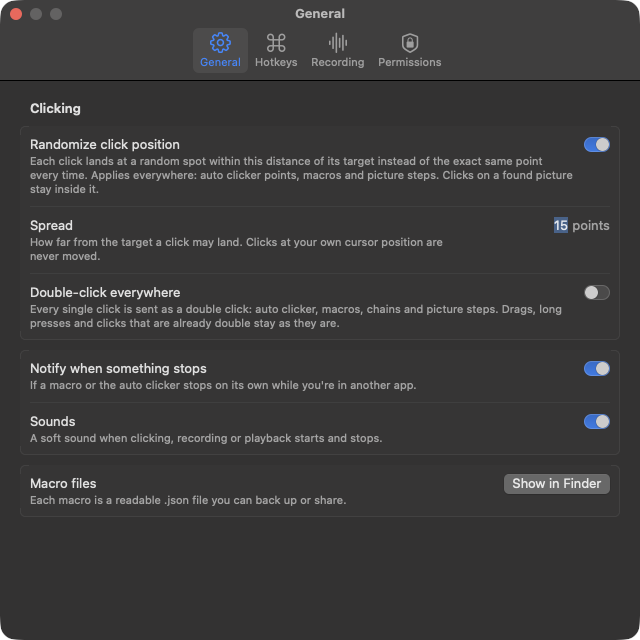
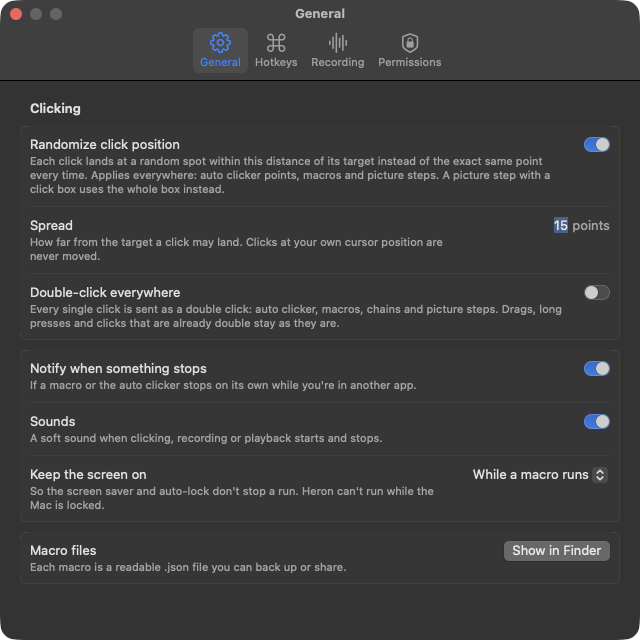
Heron 1.2.0: README, screenshots and release notes
- README describes templates, schedules, stop conditions, smarter recording, Both and Spot, Type from a list, resizing, click boxes and the cleaner editor; new templates screenshot, refreshed screenshots
- README tour selects a step for the main picture and captures the template chooser
- Test data uses neutral words

diff --git a/Tests/qa/lookup.swift b/Tests/qa/lookup.swift
@@ -188,12 +188,12 @@ CLICK
 check("a drafted plan becomes steps", planned == [.click("Claim"), .wait(2), .type("hello"), .press("Return")], "\(planned)")
 
 // Live (informational): what the on-device model suggests on a typical results screen.
-let screenLines = ["K.O.", "Battle Results", "OK", "Link Skill Level"].map { TextFinder.Line(text: $0, rect: .zero, words: []) }
+let screenLines = ["Level complete", "Results", "OK", "Total score"].map { TextFinder.Line(text: $0, rect: .zero, words: []) }
 let sem = DispatchSemaphore(value: 0)
 var suggestion: String?
 Task.detached { suggestion = await Assistant.suggestTap(on: screenLines); sem.signal() }
 sem.wait()
-print("INFO suggestion for [K.O., Battle Results, OK, Link Skill Level]: \(suggestion ?? "none") (model available: \(Assistant.modelAvailable))")
+print("INFO suggestion for [Level complete, Results, OK, Total score]: \(suggestion ?? "none") (model available: \(Assistant.modelAvailable))")
 check("a suggestion is always one of the words on screen", suggestion == nil || screenLines.contains { $0.text == suggestion })
 
 // Smart recording, icons: a detailed spot becomes a picture; a flat one doesn't.
@@ -360,7 +360,7 @@ check("“4” matches the 4 standing on its own", near(TextFinder.find("4", in:
 check("longer words still match inside a line", TextFinder.find("Turn", in: nlines, area: nil) != nil)
 
 // Big pictures: found where they are, without taking seconds.
-let bigScene = window([("Battle Results", CGPoint(x: 60, y: 60)), ("Link Skill Level", CGPoint(x: 60, y: 120)),
+let bigScene = window([("Results", CGPoint(x: 60, y: 60)), ("Total score", CGPoint(x: 60, y: 120)),
                        ("Claim", CGPoint(x: 500, y: 300)), ("Close", CGPoint(x: 300, y: 420))])
 let bigRect = CGRect(x: 40, y: 40, width: 520, height: 330)
 let bigPic = pngOf(bigScene.0, bigRect)

diff --git a/Sources/Heron/ScreenshotTour.swift b/Sources/Heron/ScreenshotTour.swift
@@ -44,6 +44,11 @@ enum ScreenshotTour {
                 if let viewMode { UserDefaults.standard.set(viewMode, forKey: "stepsViewMode") }
                 model.sidebar = page
                 try? await Task.sleep(for: .seconds(1.2))
+                // The main picture shows a step's settings beside the list.
+                if name == "chain" {
+                    NotificationCenter.default.post(name: Self.selectAction, object: 0)
+                    try? await Task.sleep(for: .seconds(0.8))
+                }
                 NSApp.activate(ignoringOtherApps: true)
                 try? await Task.sleep(for: .seconds(0.4))
                 // An open sheet is its own window.
@@ -52,6 +57,13 @@ enum ScreenshotTour {
                     try? png.write(to: out.appendingPathComponent("\(name).png"))
                 }
             }
+            // A new macro opens on its templates (“What should it do?”).
+            model.newMacro()
+            try? await Task.sleep(for: .seconds(1.2))
+            if let win = NSApp.windows.first(where: { $0.isVisible && $0.canBecomeMain }), let png = capture(win) {
+                try? png.write(to: out.appendingPathComponent("templates.png"))
+            }
+            if let m = model.selectedMacro, m.steps.isEmpty { model.delete(m) }
             model.sidebar = .autoClicker
             // Settings live in their own window.
             let main = NSApp.windows.first { $0.isVisible && $0.canBecomeMain }

diff --git a/README.md b/README.md
@@ -6,7 +6,8 @@
 
 <p align="center">
   <b>The free Mac auto clicker that can see your screen.</b><br>
-  Click on a timer, replay what you did, or click a button or a word the moment it shows up.
+  Click on a timer, replay what you did, or click a button or a word the moment it shows up.<br>
+  Run it on a schedule, and let it stop by itself when the job is done.
 </p>
 
 <p align="center">
@@ -31,8 +32,15 @@
 clicks it the moment it appears, wherever it appears. Words are read on your Mac with Apple's built-in text
 recognition.
 
-**Record once, see what you did.** A recording shows up as numbered taps and swipes on top of the window,
-with a timeline, instead of hundreds of raw events. Drag a tap to move it.
+**Start in seconds.** A new macro asks what it should do: click something whenever it appears, do some
+steps in order, run on a schedule, or repeat until it's done. Answer a question or two and it's set up.
+
+**Record once, and it finds things for you.** Every tap you record becomes a step that finds what you
+tapped, by its picture or its words, wherever it is next time. A recording shows up as numbered taps on top
+of the window, with a timeline, instead of hundreds of raw events.
+
+**Runs on its own.** Start a macro every morning, every few hours or when an app opens, and have it stop
+when a “finished” screen appears. Heron keeps the screen awake while it works and tells you how it went.
 
 **Runs in the background.** Switch on a macro that clicks pop-ups whenever they show up, while another
 macro plays or you keep working.
@@ -51,6 +59,14 @@ your Mac.
   <tr>
     <td align="center">Recordings as a map</td>
     <td align="center">Background macros</td>
+  </tr>
+  <tr>
+    <td><img src="docs/screenshots/templates.png" alt="A new macro asking what it should do, with five starting points"></td>
+    <td><img src="docs/screenshots/chain.png" alt="A picture step's settings: look for a picture, words or both, where clicks land, and the search area"></td>
+  </tr>
+  <tr>
+    <td align="center">Start from a template</td>
+    <td align="center">Pictures and words</td>
   </tr>
   <tr>
     <td><img src="docs/screenshots/auto-clicker.png" alt="The auto clicker with a large speed readout and its settings"></td>
@@ -102,20 +118,23 @@ scripts/setup-signing.sh   # once: a personal signing certificate, so permission
 </details>
 
 <details>
-<summary><b>Record and build macros</b></summary>
+<summary><b>Start, record and build macros</b></summary>
 
-- Record mouse moves, clicks, drags, scrolls and keystrokes, or just one app's window
-- Remember what you click: a click on a word like “Claim” or on an icon becomes a step that finds it
-  wherever it is, and clicks the recorded spot if it isn't there. Works whenever every click goes to one app
-- Or build one step by step: Click, Type, Wait, Find Picture and Find Text are one click each, and the
-  selected step's settings show beside the list
-- See a macro three ways: a map of the window with every tap, a readable list (“Tap”, “Swipe up”,
-  “Type “hello””), or every raw event
-- Switch any step off without deleting it, and keep macros in folders
+- Templates: a new macro asks what it should do (click something whenever it appears, steps in order,
+  run on a schedule, repeat until done) and sets itself up
+- Record mouse and keyboard, or just one app's window. Every tap becomes a step that finds what you tapped,
+  by its picture, its words or both, and taps the recorded spot if it isn't there. Several quick taps on one
+  spot become “keep tapping until it's gone”
+- Build step by step: Find Picture, and an Add menu with every kind of step, from clicks and key presses to
+  waits and repeats. The selected step's settings show beside the list, with fine-tuning folded away
+- Type text, or Type from a list: each run types the next item (codes, names, numbers), remembers where it
+  got to, and stops or starts over at the end
+- Suggestions from your own taps: things you press yourself while a macro plays are offered as steps
+- See a macro as a map of the window with every tap, a readable list, or every raw event
+- Reorder by dragging, from the right-click menu, or with ⌥⌘↑ and ⌥⌘↓; switch steps off without deleting
+  them; keep macros in folders
 - Branch and repeat: a step that isn't found can go to another step, and a Repeat step goes back to an
   earlier one a set number of times
-- Replay at any speed, once, a number of times, until stopped or for a set time, with a random pause
-  between rounds
 - Undo and redo for every edit, and global hotkeys for everything, including a panic stop
 
 </details>
@@ -123,32 +142,37 @@ scripts/setup-signing.sh   # once: a personal signing certificate, so permission
 <details>
 <summary><b>Finding pictures and words</b></summary>
 
-- A picture step waits for a picture to appear in the window, then clicks it wherever it is. It can also
-  just wait for it, or wait until it's gone
-- A text step does the same for words, read on your Mac
+- Look for a picture, some words (read on your Mac), or both, whichever shows up first
+- Click it, just wait for it, wait until it's gone, or stop the macro when it appears
 - Pick pictures by drawing a box on a screenshot, with zoom and pixel-precise handles
-- A step can hold several pictures of the same thing (different states or colours), and any of them counts;
-  select several picture steps to combine them into one
-- Choose exactly where clicks land on a picture by dragging a box on it, or click once for a precise spot
-- Limit any search to an area of the window, so it's faster and ignores look-alikes elsewhere
-- Keep clicking until it's gone, wait before clicking, click at an offset, and choose what happens if it
-  never shows up
-- Run steps in order, or all at once: every picture is watched together and whichever appears gets clicked,
-  taking turns or with higher steps winning
-- Tap when stuck: if nothing shows up for a while, tap a spot you choose, and keep that screen under Stuck
-  Screens so you can turn it into a step
-- After a run, see how often each step fired, and limit a step's search to where it was actually found
+- Several pictures of the same thing (different states or colours) can count as one step
+- Draw a box on the picture and each click lands on a different spot inside it
+- Limit any search to an area of the window; after a few runs Heron can narrow searches to where things
+  actually showed up
+- Pictures and positions resize with the window, so a bigger or smaller window still works
+- Waits for things to stop moving before clicking, and the wait before clicking can be a random range
+- Spot: switch any step to click fixed coordinates without looking, and back again, keeping its picture
+- Fast: even large pictures are checked in a few milliseconds, so many steps can be watched at once
 - Test Now shows whether it's on screen right now and how close the match is
 
 </details>
 
 <details>
-<summary><b>Background macros</b></summary>
+<summary><b>Running: in order, all at once, on a schedule</b></summary>
 
-- Any macro can keep running in the background with its own on/off switch, alongside whatever else is
-  playing
-- “Watch for something” starts one: a picture or some words to click whenever they show up
-- Optionally stop after a number of clicks
+- Run steps in order, or all at once: every picture is watched together and whichever appears gets clicked,
+  taking turns or with higher steps winning
+- Replay at any speed, once, a number of times, until stopped or for a set time, with a random pause between rounds
+- Vary the timing so waits between steps come a little early or late
+- Stop when it appears: a picture or words that end the run as soon as they show up, like a “Finished” screen
+- Schedule: daily at set times (pick the weekdays), every few hours, or when the app opens, with a time
+  limit and a notification when it's done. Optionally open Heron at login
+- Keep the screen on while a macro runs, so the screen saver and auto-lock don't stop it
+- Tap when stuck: if nothing shows up for a while, tap a spot you choose, and keep that screen under Stuck
+  Screens so you can turn it into a step
+- Background macros: any macro can keep running alongside others. Every macro in the list has a dot that
+  turns green while it runs; click it to start or stop
+- After a run, see how often each step fired
 
 </details>
 
@@ -166,12 +190,12 @@ With Apple Intelligence (macOS 26 or later), all on your Mac and never sent anyw
 <details>
 <summary><b>Clicking that stays out of your way</b></summary>
 
-- Jump & return: the cursor jumps to each click and straight back, and waits until you've stopped moving
-  the mouse
+- Jump & return (the default): the cursor jumps to each click and straight back, and waits until you've
+  stopped moving the mouse
 - Background delivery for apps that accept it, without moving the cursor at all
 - Positions are relative to the app's window, so moving the window doesn't break anything
-- Optional click spread: each click lands at a random spot near its target, and clicks on a found picture
-  always stay inside it
+- Randomize click position: each click lands at a random spot near its target (or anywhere in a picture's
+  click box)
 - Optional double-click everywhere: every single click is sent as a double click, with a hotkey to flip it
 - A notification if something stops on its own while you're in another app
 
@@ -189,7 +213,7 @@ It asks only for the permissions a feature needs:
 |---|---|
 | Accessibility | Clicking, moving the mouse and typing |
 | Input Monitoring | Recording your mouse and keyboard |
-| Screen Recording *(optional)* | Color checks, finding pictures and words, and the map view. Only the target window is read, and nothing is saved except the pictures you pick |
+| Screen Recording *(optional)* | Color checks, finding pictures and words, smart recording and the map view. Only the target window is read, and nothing is saved except the pictures you pick |
 
 ## When something misbehaves
 
@@ -203,7 +227,7 @@ It asks only for the permissions a feature needs:
 ## Contributing
 
 Issues and pull requests are welcome. `Tests/qa/run.sh` runs the tests (the screenshot cropper, click
-spread, double-click, and finding pictures and words), and `scripts/make-demo.sh --screenshots`
+spread and click boxes, double-click, finding pictures and words, resizing, scheduling, playback and lists), and `scripts/make-demo.sh --screenshots`
 regenerates the screenshots on this page from neutral demo data. `scripts/qa-sweep.sh` captures every page at three window sizes in light and dark for a visual check, and
 `scripts/release.sh` builds the app for
 both kinds of Mac and publishes a release with the notes in `docs/release-notes/`.

diff --git a/docs/release-notes/1.2.0.md b/docs/release-notes/1.2.0.md
@@ -1,0 +1,26 @@
+**Heron now sets itself up, runs on its own, and stops when the job is done.** Your macros, settings and permissions carry over: install it over the old app.
+
+**Download `Heron-1.2.0.zip` below**, unzip it, and drag Heron to your Applications folder. It runs on Apple silicon and Intel Macs with macOS 14 or later. The first time, open it once, then go to **System Settings › Privacy & Security** and click **Open Anyway**, because Heron isn't notarized by Apple.
+
+### New
+
+- **Templates.** A new macro asks what it should do: click something whenever it appears, do steps in order, run on a schedule, or repeat until it's done.
+- **Schedules.** Start a macro daily at set times, every few hours, or when its app opens, with a time limit and a notification when it's done. Optionally open Heron at login.
+- **Stop when it appears.** A picture or some words that end the run as soon as they show up.
+- **Keep the screen on** while a macro runs, so the screen saver and auto-lock don't stop it.
+- **Smarter recording.** Every tap becomes a step that finds what you tapped, by its picture, its words or both. Quick repeated taps become “keep tapping until it's gone”.
+- **Picture, words or both** in one step, and **Spot** to click fixed coordinates instead, switching back anytime.
+- **Type from a list**: each run types the next item and remembers where it got to.
+- **Resizes with the window**: pictures, areas and positions follow a bigger or smaller window.
+- **Click boxes** spread clicks over the whole box; the wait before clicking can be a random range; and **Vary the timing** varies the waits between steps.
+- **Waits for things to stop moving** before clicking.
+- **Suggestions from your own taps** while a macro plays.
+- **Reorder steps** by dragging, from the right-click menu, or with ⌥⌘↑ and ⌥⌘↓.
+- **A cleaner editor**: one toolbar, an Add menu with every kind of step, fine-tuning under More options, and a dot on every macro to start or stop it.
+
+### Better
+
+- **Much faster picture matching**: large pictures that took seconds now take milliseconds.
+- **More reliable words**: short words like “1” match only on their own, and text in a search area is read in context.
+- **Jump & return is the default**; the old Normal delivery is gone.
+- Search-area suggestions learn from past runs, and layout fixes at every window size.
